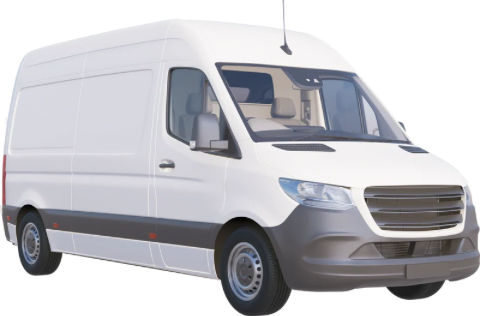
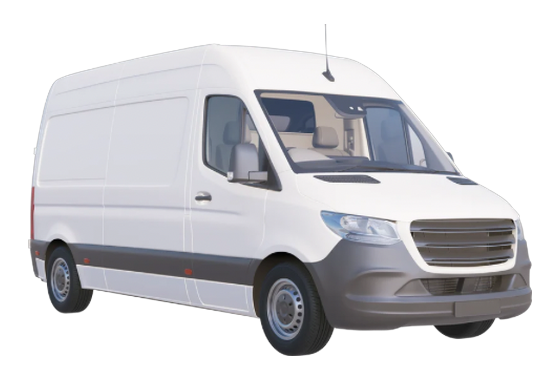
Add files via upload

diff --git a/index.html b/index.html
@@ -115,7 +115,7 @@ h2{font-family:var(--FD);font-weight:700;font-size:clamp(1.7rem,3.4vw,2.5rem);li
 .v-card,.v-card *{-webkit-tap-highlight-color:rgba(255,100,13,.15)}
 .v-card img{pointer-events:none}
 .v-card>*{pointer-events:none}
-.v-card .v-art{width:100%;height:150px;margin-bottom:1.2rem;display:flex;align-items:center;justify-content:center}.v-card .v-art svg{width:130px;height:66px}.v-card .v-art img{max-width:100%;max-height:150px;object-fit:contain}
+.v-card .v-art{width:100%;height:132px;margin-bottom:1.1rem;display:flex;align-items:center;justify-content:center;overflow:hidden}.v-card .v-art img{width:100%;height:100%;object-fit:contain;display:block}
 .v-card h3{font-family:var(--FD);font-weight:600;font-size:1.22rem}
 .v-card .v-tag{font-family:var(--FM);font-size:.58rem;letter-spacing:.16em;color:var(--orange);text-transform:uppercase;margin-top:.2rem}
 .v-specs{margin-top:1.1rem;border-top:1px solid var(--hairline);padding-top:1rem;display:grid;gap:.45rem}
